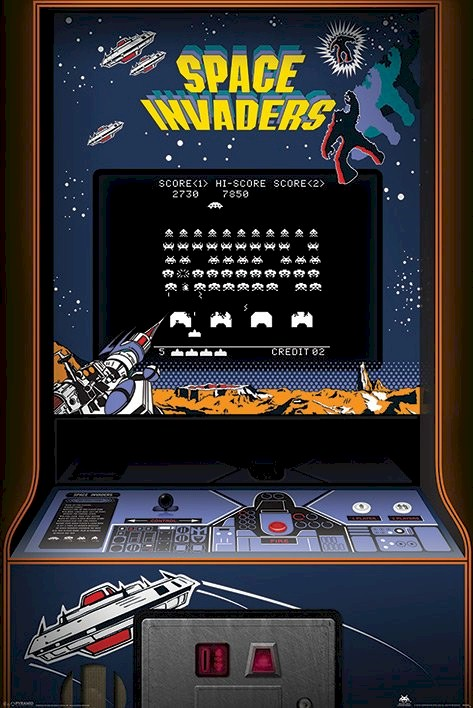
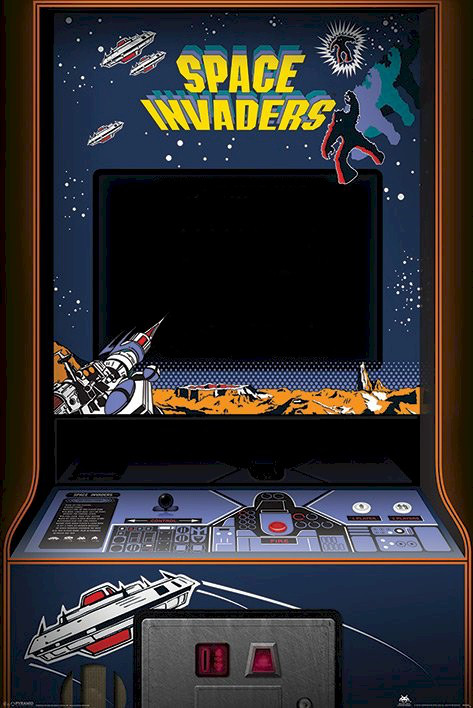
Olde Timey console image !

diff --git a/vanilla/game.css b/vanilla/game.css
@@ -18,26 +18,30 @@ img {
 }
 
 .content {
-    width: 310px;
-    margin: 0 auto;
-    /*background-image: url(../assets/arcade-cabinet.jpg);*/
+    height            : 1016px;
+    width             : 646px;
+    background-repeat : no-repeat;
+    background-size   : contain;
+    margin            : 0 auto;
+    background-image  : url(../assets/arcade-cabinet.jpg);
 }
 
 .content h1, .content h2 {
     width      : 100%;
-    text-align :center;
+    text-align : center;
+    margin     : 0;
 }
 
 canvas {
-    border : 1px solid #999;    
+      margin : 240px 0 0 150px;  
 }
 
 #game-over {
-    color   : #C00;
+    color   : #B00;
     display : none;
 }
 
 #you-win {
-    color   :#0C0;
-    display :none;
+    color   : #090;
+    display : none;
 }

diff --git a/vanilla/game.js b/vanilla/game.js
@@ -222,7 +222,7 @@
         },
 
         updatePatrolDir: function() {
-            if (this.leftMostInvader.center.x < 30 || this.rightMostInvader.center.x > 280) {
+            if (this.leftMostInvader.center.x < 30 || this.rightMostInvader.center.x > this.stage.canvas.width - 30) {
                 this.patrolDir = -this.patrolDir;
             }
         },

diff --git a/vanilla/index.html b/vanilla/index.html
@@ -9,8 +9,7 @@
 
 <body>
     <div class="content">
-        <h1 class="title">Invaders</h1>
-        <canvas id="stage" width="310" height="310"></canvas>
+        <canvas id="stage" width="350" height="220"></canvas>
         <h2 id="game-over">Game Over</h2>
         <h2 id="you-win">You Win!</h2>
     </div>
